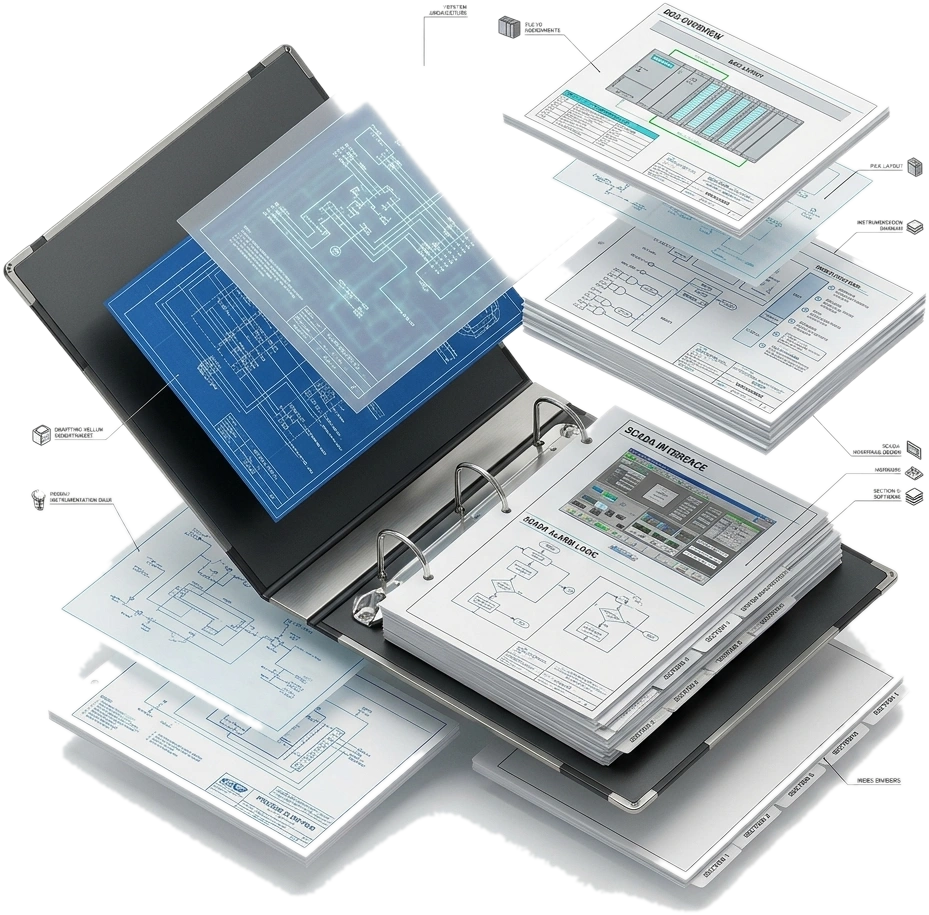
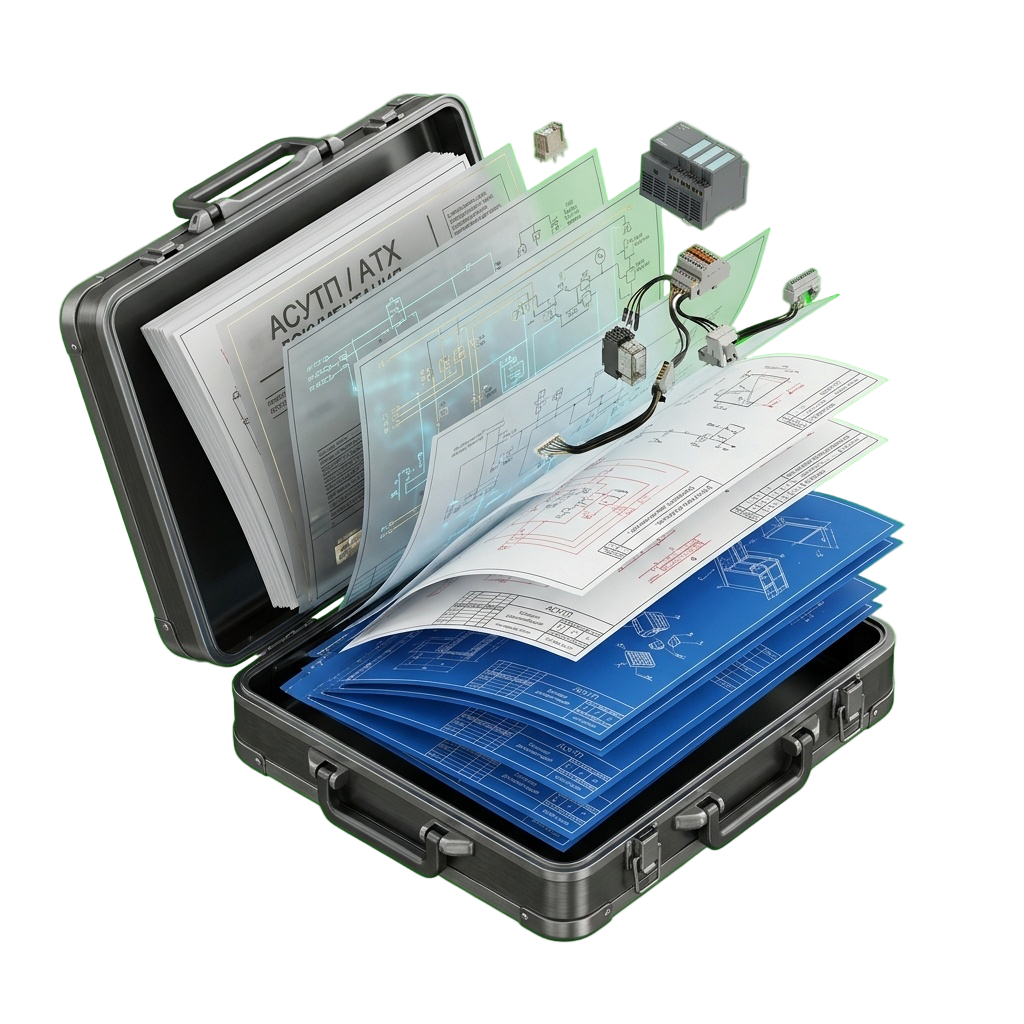
feat(cooperation): use transparent 3D documentation case asset from user

diff --git a/src/components/sections/cooperation.tsx b/src/components/sections/cooperation.tsx
@@ -60,7 +60,7 @@ export function Cooperation() {
           <div className="absolute top-0 right-1/4 w-96 h-96 bg-white/[0.03] rounded-full blur-3xl pointer-events-none" />
 
           {/* 3D Folder Render Peeking out from behind the left form (Desktop) */}
-          <div className="absolute left-[300px] xl:left-[350px] 2xl:left-[400px] top-1/2 -translate-y-1/2 pointer-events-none select-none z-10 hidden lg:block opacity-75 xl:opacity-90">
+          <div className="absolute left-[290px] xl:left-[340px] 2xl:left-[390px] top-1/2 -translate-y-1/2 pointer-events-none select-none z-10 hidden lg:block opacity-90 xl:opacity-100">
             <motion.img
               initial={{ opacity: 0, x: -20 }}
               whileInView={{ opacity: 1, x: 0 }}
@@ -68,7 +68,7 @@ export function Cooperation() {
               transition={{ duration: 0.6, delay: 0.15 }}
               src="/cooperation_folder.webp"
               alt="Документация АСУТП"
-              className="w-[460px] xl:w-[530px] 2xl:w-[580px] h-auto object-contain drop-shadow-[0_20px_45px_rgba(0,0,0,0.6)]"
+              className="w-[460px] xl:w-[540px] 2xl:w-[590px] h-auto object-contain drop-shadow-[0_20px_45px_rgba(0,0,0,0.6)]"
               draggable={false}
             />
           </div>
